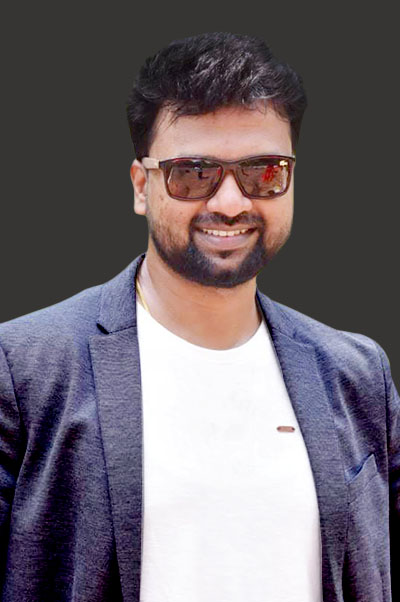
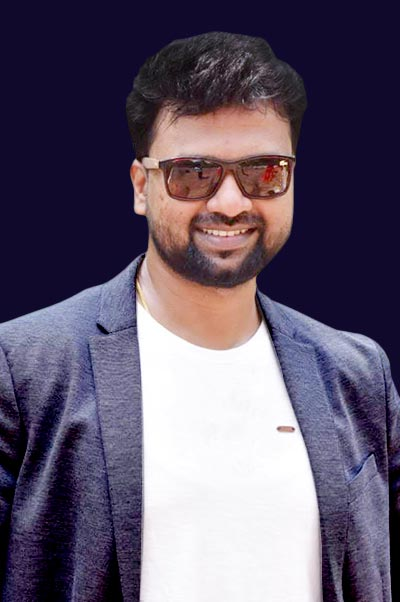
project update

diff --git a/src/pages/About.jsx b/src/pages/About.jsx
@@ -21,31 +21,34 @@ export default function About() {
       <Wrapper>
         <Title>About Me</Title>
         <ToggleParagraph>
-          I am a highly-motivated and adaptable person who is always looking for
-          new challenges. Thanks to my insatiable need for knowledge, I am
-          committed to providing excellent service. Being optimistic and having
-          a development mentality have prepared me to make a significant impact
-          and accomplish remarkable things. With over a decade of expertise in
-          web front-end and user interface development, my passion and expertise
-          are valuable additions to every project I take on. My experience in
-          the IT industry has expanded from my early days of studying frontend
-          technology. The breadth and depth of my skill set allow me to design
-          and develop online applications that not only meet but exceed user
-          expectations in terms of responsiveness, aesthetics, and power. Along
-          with my technical expertise, I have dedicated a great deal of effort
-          to honing my visual design skills. I am able to create interfaces that
-          are both pleasing and functional. I am passionate about front-end
-          programming because I need to constantly push myself. Researching and
-          reading up on current trends and best practices in my sector allows me
-          to keep my work fresh while still meeting or surpassing expectations.
-          An focus on originality is inherent in my work. I am quite proud of my
-          ability to consistently come up with innovative solutions to
-          challenging problems and of the excellent quality of my work, both of
-          which consistently surpass client expectations. Whether I'm part of a
-          team or working alone, my enthusiasm, dedication, and meticulousness
-          always provide excellent results. I am an accomplished front-end
-          developer that is eager to meet with you to talk about the possibility
-          of contributing to your next project.
+          I am a freelance product designer and full-stack developer
+          specializing in cutting-edge technology and the development of full
+          web and mobile applications. With expertise in business product
+          structure, user experience (UX), user interface (UI) design, and
+          development, I transform ideas into powerful digital solutions. I
+          leverage modern technologies, including generative AI, cloud
+          computing, and responsive frameworks, to build innovative,
+          high-performance applications that seamlessly run on both desktop and
+          mobile platforms. With over a decade of experience in web front-end
+          and UI development, I bring a passion for design and technology to
+          every project. My journey in the IT industry began with frontend
+          development, gradually expanding to full-stack development, allowing
+          me to create applications that are not only visually stunning but also
+          highly responsive, scalable, and user-centric. Beyond my technical
+          expertise, I have dedicated years to refining my visual design skills,
+          ensuring that the interfaces I build are both aesthetically engaging
+          and functionally seamless. I thrive on continuous learning and
+          innovation, always staying ahead of emerging technologies and industry
+          best practices. My problem-solving mindset and dedication to
+          excellence allow me to develop creative solutions that exceed client
+          expectations. Whether working independently or as part of a team, my
+          enthusiasm, meticulous attention to detail, and commitment to quality
+          ensure outstanding results. I am a highly motivated and adaptable
+          professional who embraces new challenges and opportunities. My
+          optimistic outlook and growth-oriented mindset enable me to make a
+          meaningful impact on every project I take on. If you’re looking for a
+          skilled full web and mobile app designer and developer, I’d love to
+          discuss how I can contribute to your next project.
         </ToggleParagraph>
       </Wrapper>
     </StyledElement>

diff --git a/src/data/constants.js b/src/data/constants.js
@@ -36,6 +36,7 @@ import { IoMailOutline } from "react-icons/io5";
 import { SlSocialSkype } from "react-icons/sl";
 import { IoShareSocialOutline } from "react-icons/io5";
 import { BiLogoPostgresql } from "react-icons/bi";
+import { RiAiGenerate } from "react-icons/ri";
 
 export const bio = {
   name: "Vineeth Pradeep",
@@ -44,7 +45,8 @@ export const bio = {
     "Application Developer",
     "UI Developer",
     "MERN Stack Developer",
-    "Full Stack Developer",
+    "MEAN Stack Developer",
+    "Mobile App Developer",
     "UI / UX Designer",
   ],
   description:
@@ -79,6 +81,11 @@ export const skills = [
       },
       {
         name: "React Js",
+        color: "rgb(0, 255, 255)",
+        icon: FaReact,
+      },
+      {
+        name: "React Native",
         color: "rgb(0, 255, 255)",
         icon: FaReact,
       },
@@ -186,6 +193,11 @@ export const skills = [
         name: "GitHub",
         color: "#000000",
         icon: FaGithub,
+      },
+      {
+        name: "Generative AI",
+        color: "#12a37f",
+        icon: RiAiGenerate,
       },
       {
         name: "Sharepoint",
@@ -370,7 +382,7 @@ export const projects = [
         ],
         category: "webApp",
         github: "",
-        webapp: "https://eisken-properties.vercel.app",
+        webapp: "https://eiskenproperties.vercel.app/",
       },
       {
         projectId: 1,
@@ -428,6 +440,17 @@ export const projects = [
         category: "webApp",
         github: "https://github.com/vineethpradeep/trenteez",
         webapp: "https://trenteez.vercel.app",
+      },
+      {
+        projectId: 5,
+        title: "ThaughtWalks",
+        description:
+          "ThoughtWalks is an online SaaS application built using Angular, designed to connect students and mentors for interactive learning. The platform allows users to enroll in courses and create classrooms based on different subjects. Currently, it offers a Full-Stack Development course that focuses on real-time project training, providing students with hands-on experience. Upon completion, learners receive a certification and gain access to job interview preparation resources. With features like live coding sessions, one-on-one mentorship, a capstone project, resume-building support, and lifetime course access, ThoughtWalks aims to equip students with the skills and confidence needed for a successful tech career",
+        image: "/portfolio_8.png",
+        tags: ["Angular", "Responsive design"],
+        category: "webApp",
+        github: "https://github.com/vineethpradeep/thoughtwalks",
+        webapp: "https://thoughtwalks.netlify.app/",
       },
     ],
   },

diff --git a/src/pages/Header.jsx b/src/pages/Header.jsx
@@ -21,8 +21,8 @@ const StyledHeader = styled.div`
     height: 100%;
     background: linear-gradient(
       to bottom right,
-      rgba(0, 0, 0, 0.5),
-      rgba(255, 255, 255, 0.1)
+      rgb(16, 8, 41),
+      rgba(16, 8, 41, 0.6)
     );
     z-index: 1;
     pointer-events: none;
